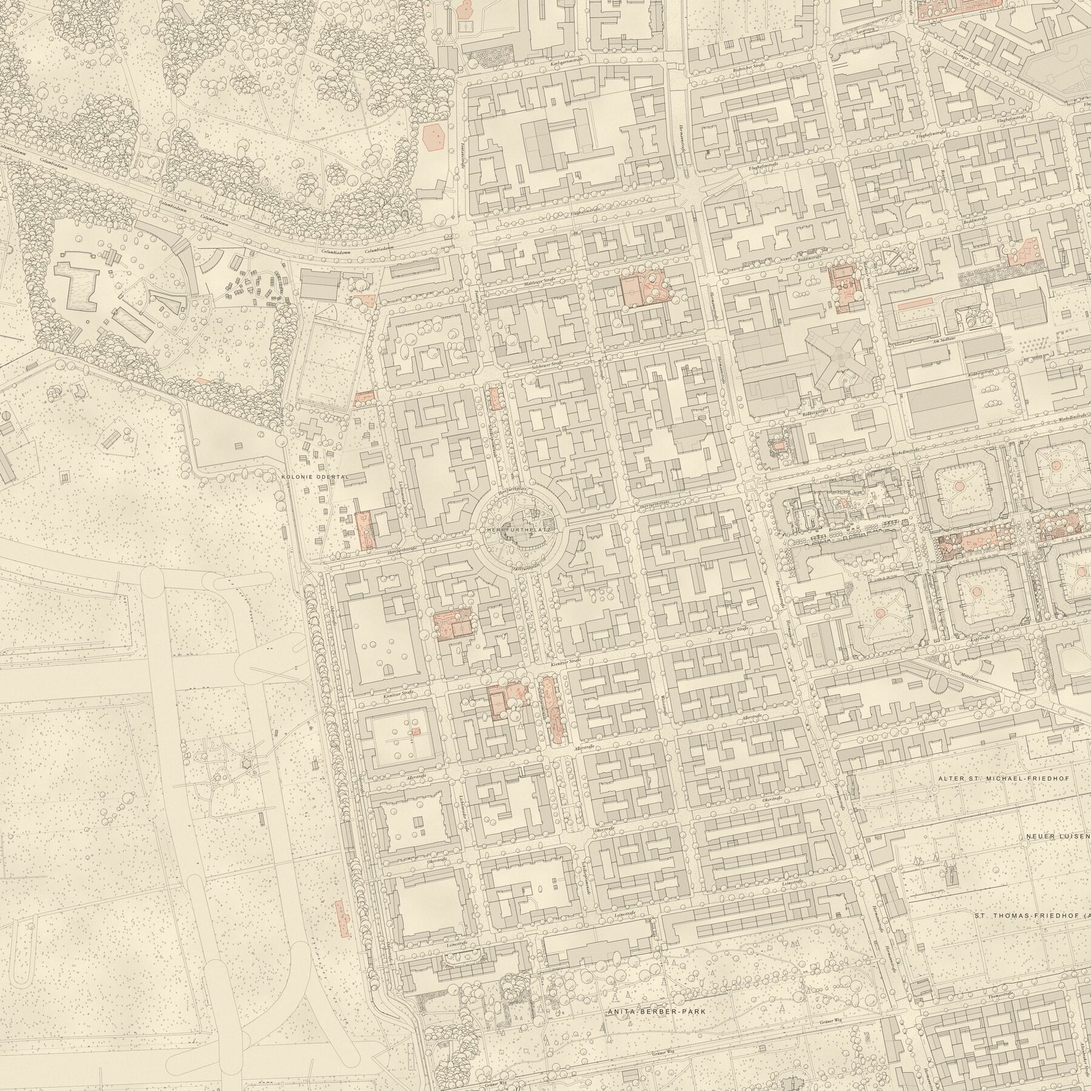
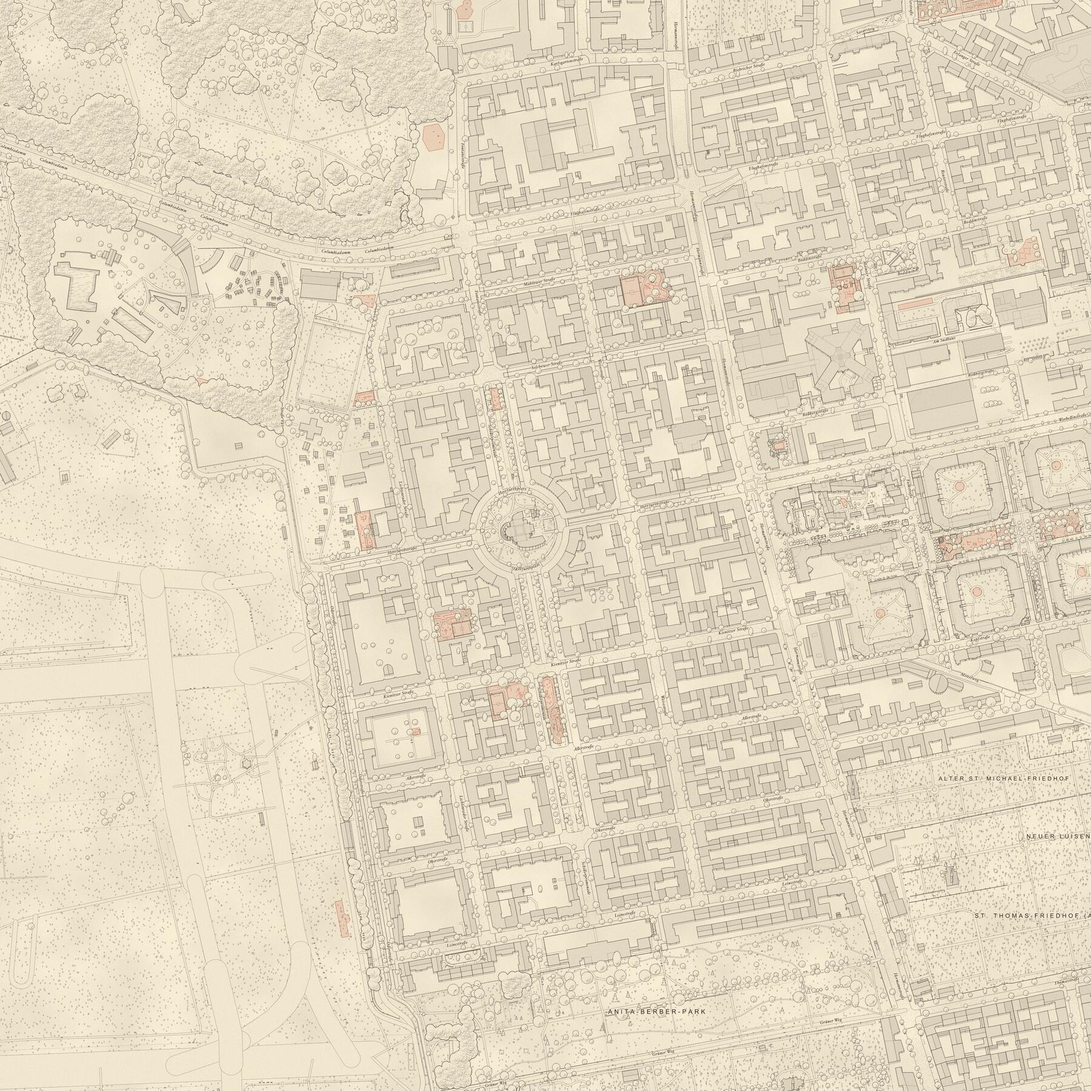
Design research: final showcases and map sheets for all variants

diff --git a/docs/design-research/tools/map_sheet.py b/docs/design-research/tools/map_sheet.py
@@ -45,7 +45,7 @@ def spaced(draw, xy, text, fnt, fill, spacing, anchor="mm"):
 
 
 def ink_sheet(m, args):
-    ink, paper = (43, 38, 32), (241, 231, 207)
+    ink, paper = ((21, 21, 21), (251, 250, 246)) if args.white else ((43, 38, 32), (241, 231, 207))
     pad, frame = 120, 34
     W, H = m.width + 2 * pad, m.height + 2 * pad + 40
     sheet = Image.new("RGB", (W, H), paper)
@@ -145,6 +145,7 @@ if __name__ == "__main__":
     ap.add_argument("--title", default="Schillerkiez")
     ap.add_argument("--subtitle", default="Neukölln · aus OpenStreetMap gezeichnet")
     ap.add_argument("--paces", action="store_true", help="label the ink scale bar in paces (fantasy touch)")
+    ap.add_argument("--white", action="store_true", help="ink sheet on white paper (for SRK_INK_PAPER=white maps)")
     a = ap.parse_args()
     m = Image.open(a.map).convert("RGB")
     out = (ink_sheet if a.style == "ink" else la_sheet)(m, a)

diff --git a/docs/design-research/NIGHT-2026-10-15.md b/docs/design-research/NIGHT-2026-10-15.md
@@ -12,7 +12,7 @@ Both explorations now **render directly from PostGIS** as new `srk-render` prese
 | --- | --- |
 | Current state, scenes A–D | [`01-landscape-architecture/current.jpg`](01-landscape-architecture/current.jpg), [`02-fantasy-ink-map/current.jpg`](02-fantasy-ink-map/current.jpg) |
 | Current state, Richardplatz + Körnerpark | `*/current-ef.jpg` |
-| As a printed sheet | [`01-…/map-sheet-schillerkiez.jpg`](01-landscape-architecture/map-sheet-schillerkiez.jpg), [`02-…/map-sheet-schillerkiez.jpg`](02-fantasy-ink-map/map-sheet-schillerkiez.jpg) |
+| As a printed sheet | LA: [default](01-landscape-architecture/map-sheet-schillerkiez.jpg), [vivid](01-landscape-architecture/map-sheet-schillerkiez-vivid.jpg) · Ink: [default](02-fantasy-ink-map/map-sheet-schillerkiez.jpg), [oblique free-standing](02-fantasy-ink-map/map-sheet-schillerkiez-oblique.jpg), [black on white](02-fantasy-ink-map/map-sheet-schillerkiez-white.jpg) |
 | Whole Schillerkiez | `*/showcase-z17.jpg`, `*/showcase-z18.jpg` |
 | Each iteration (images + notes) | `01-landscape-architecture/steps/`, `02-fantasy-ink-map/steps/` |
 | Interactive, all variants | `docs/design-research/tools/serve_viewer.sh` → <http://127.0.0.1:8017/> (tiles were left rendered in `tmp/design-tiles/`; `SKIP_RENDER=1` serves them without re-rendering) |
